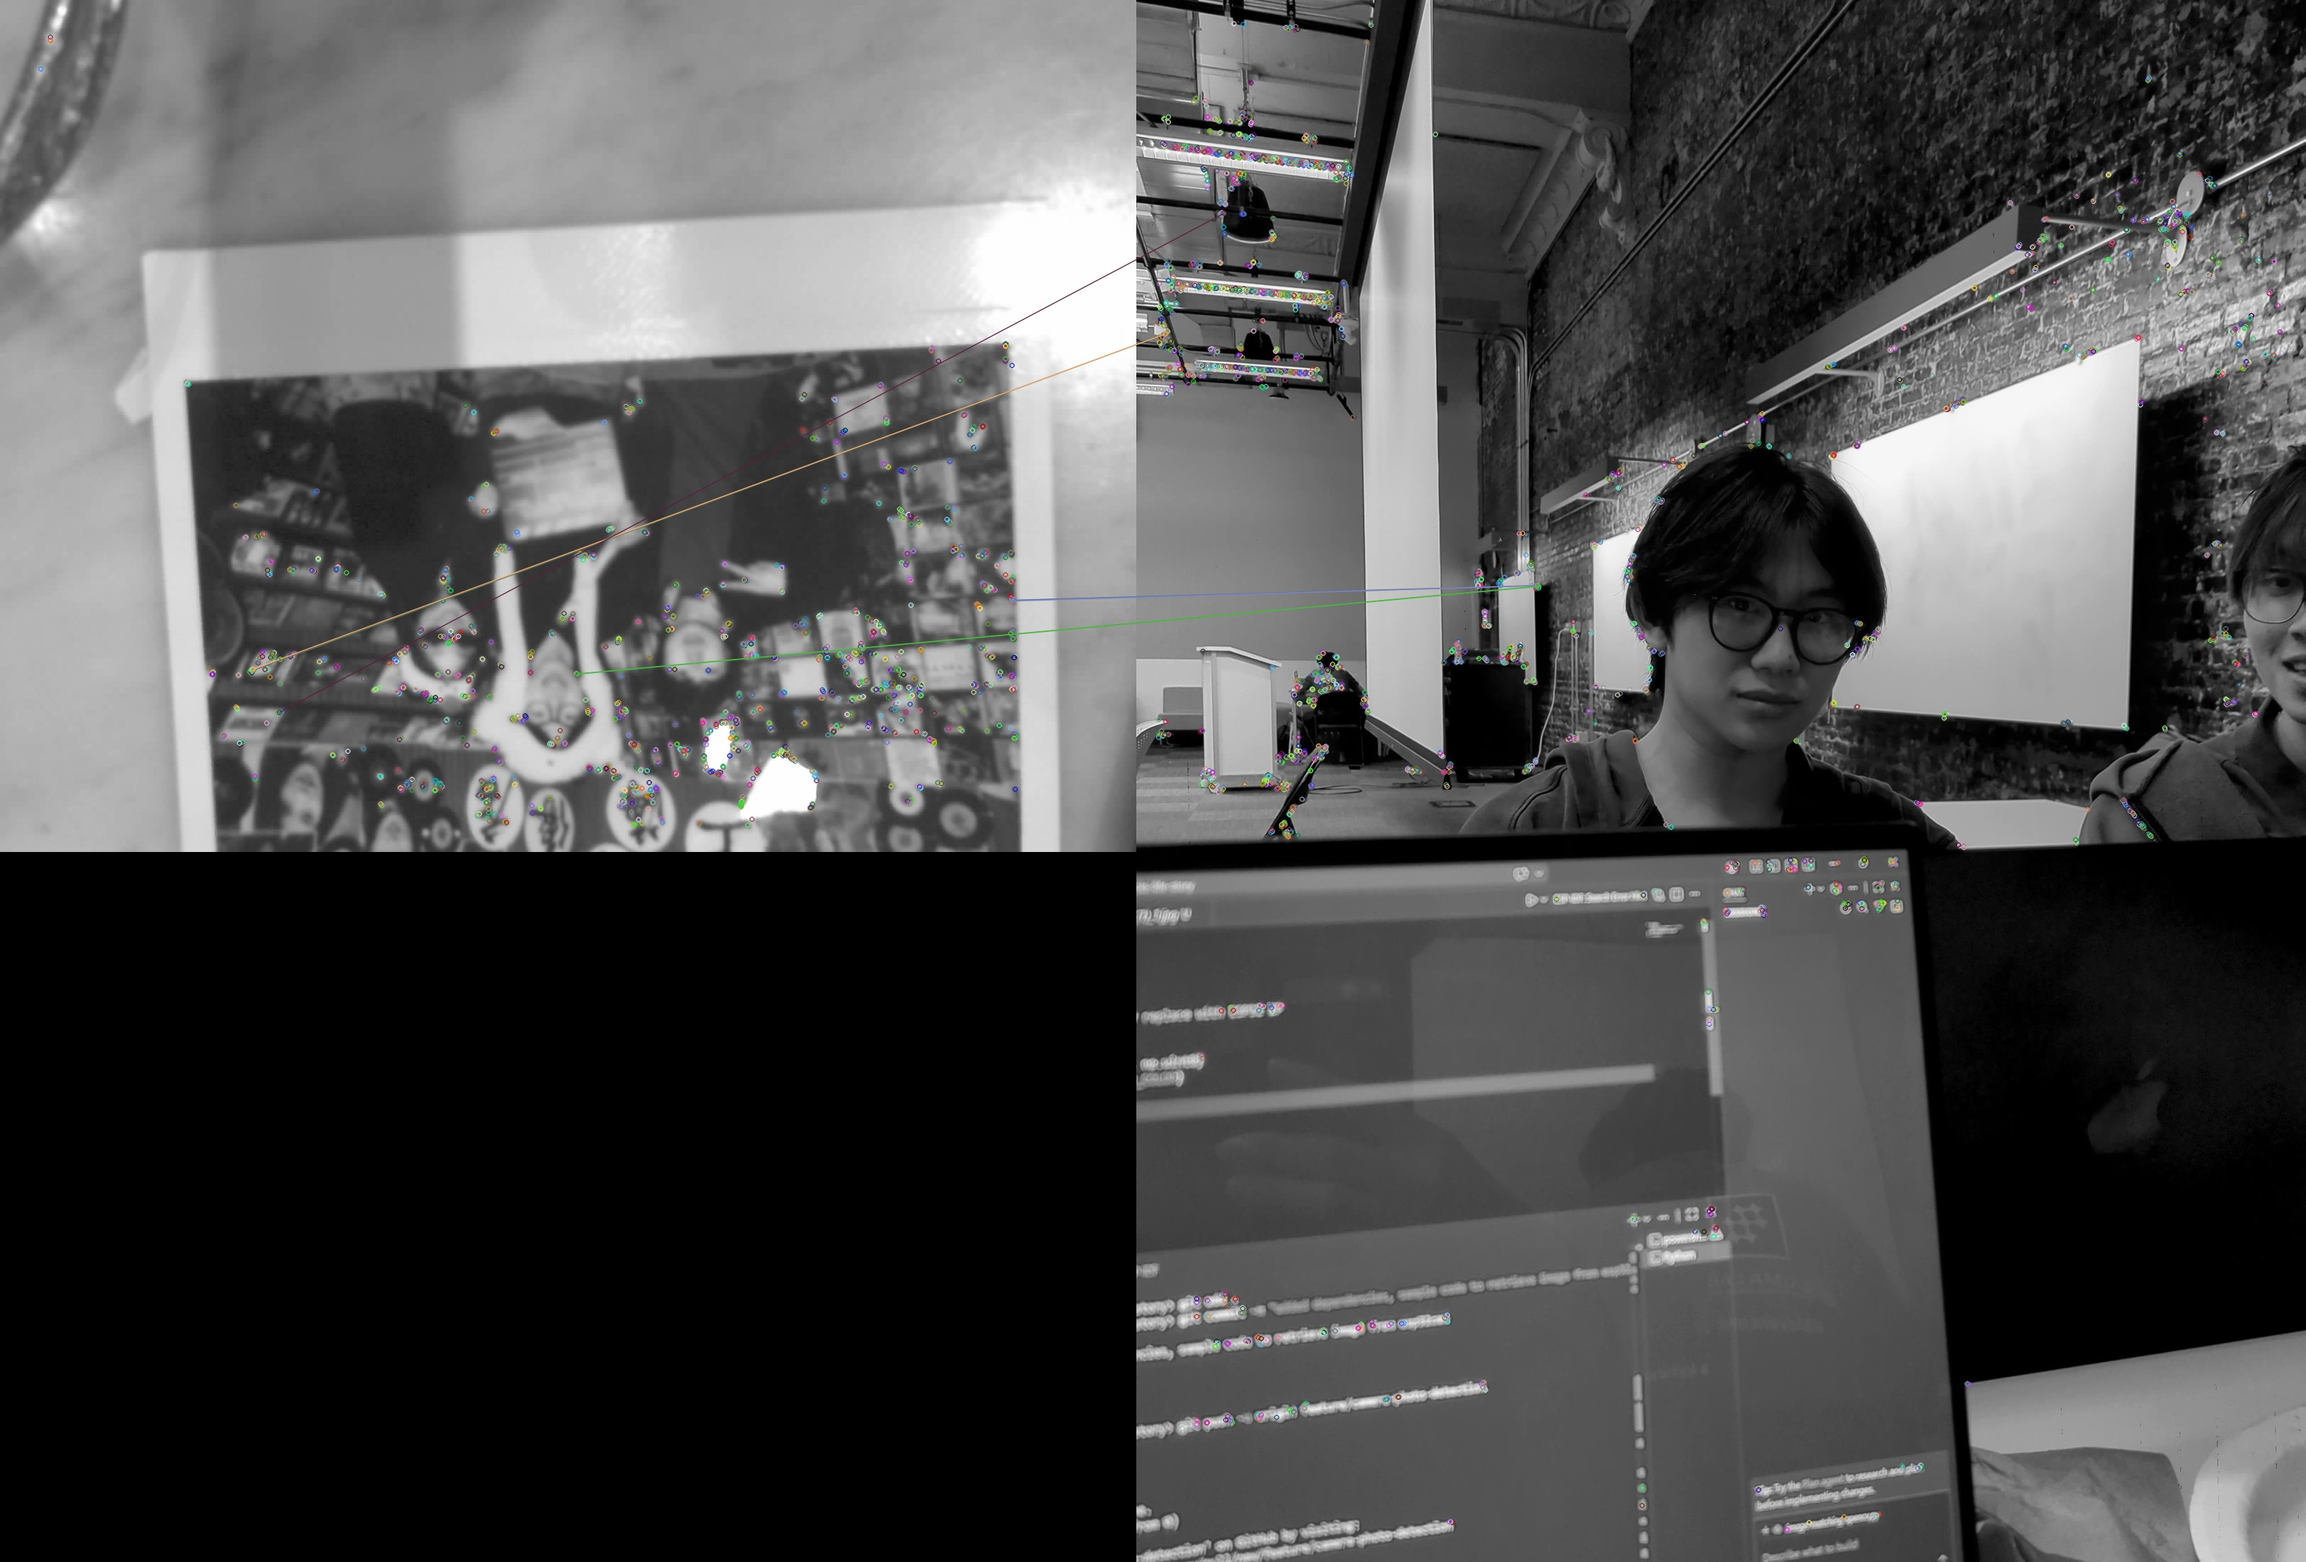
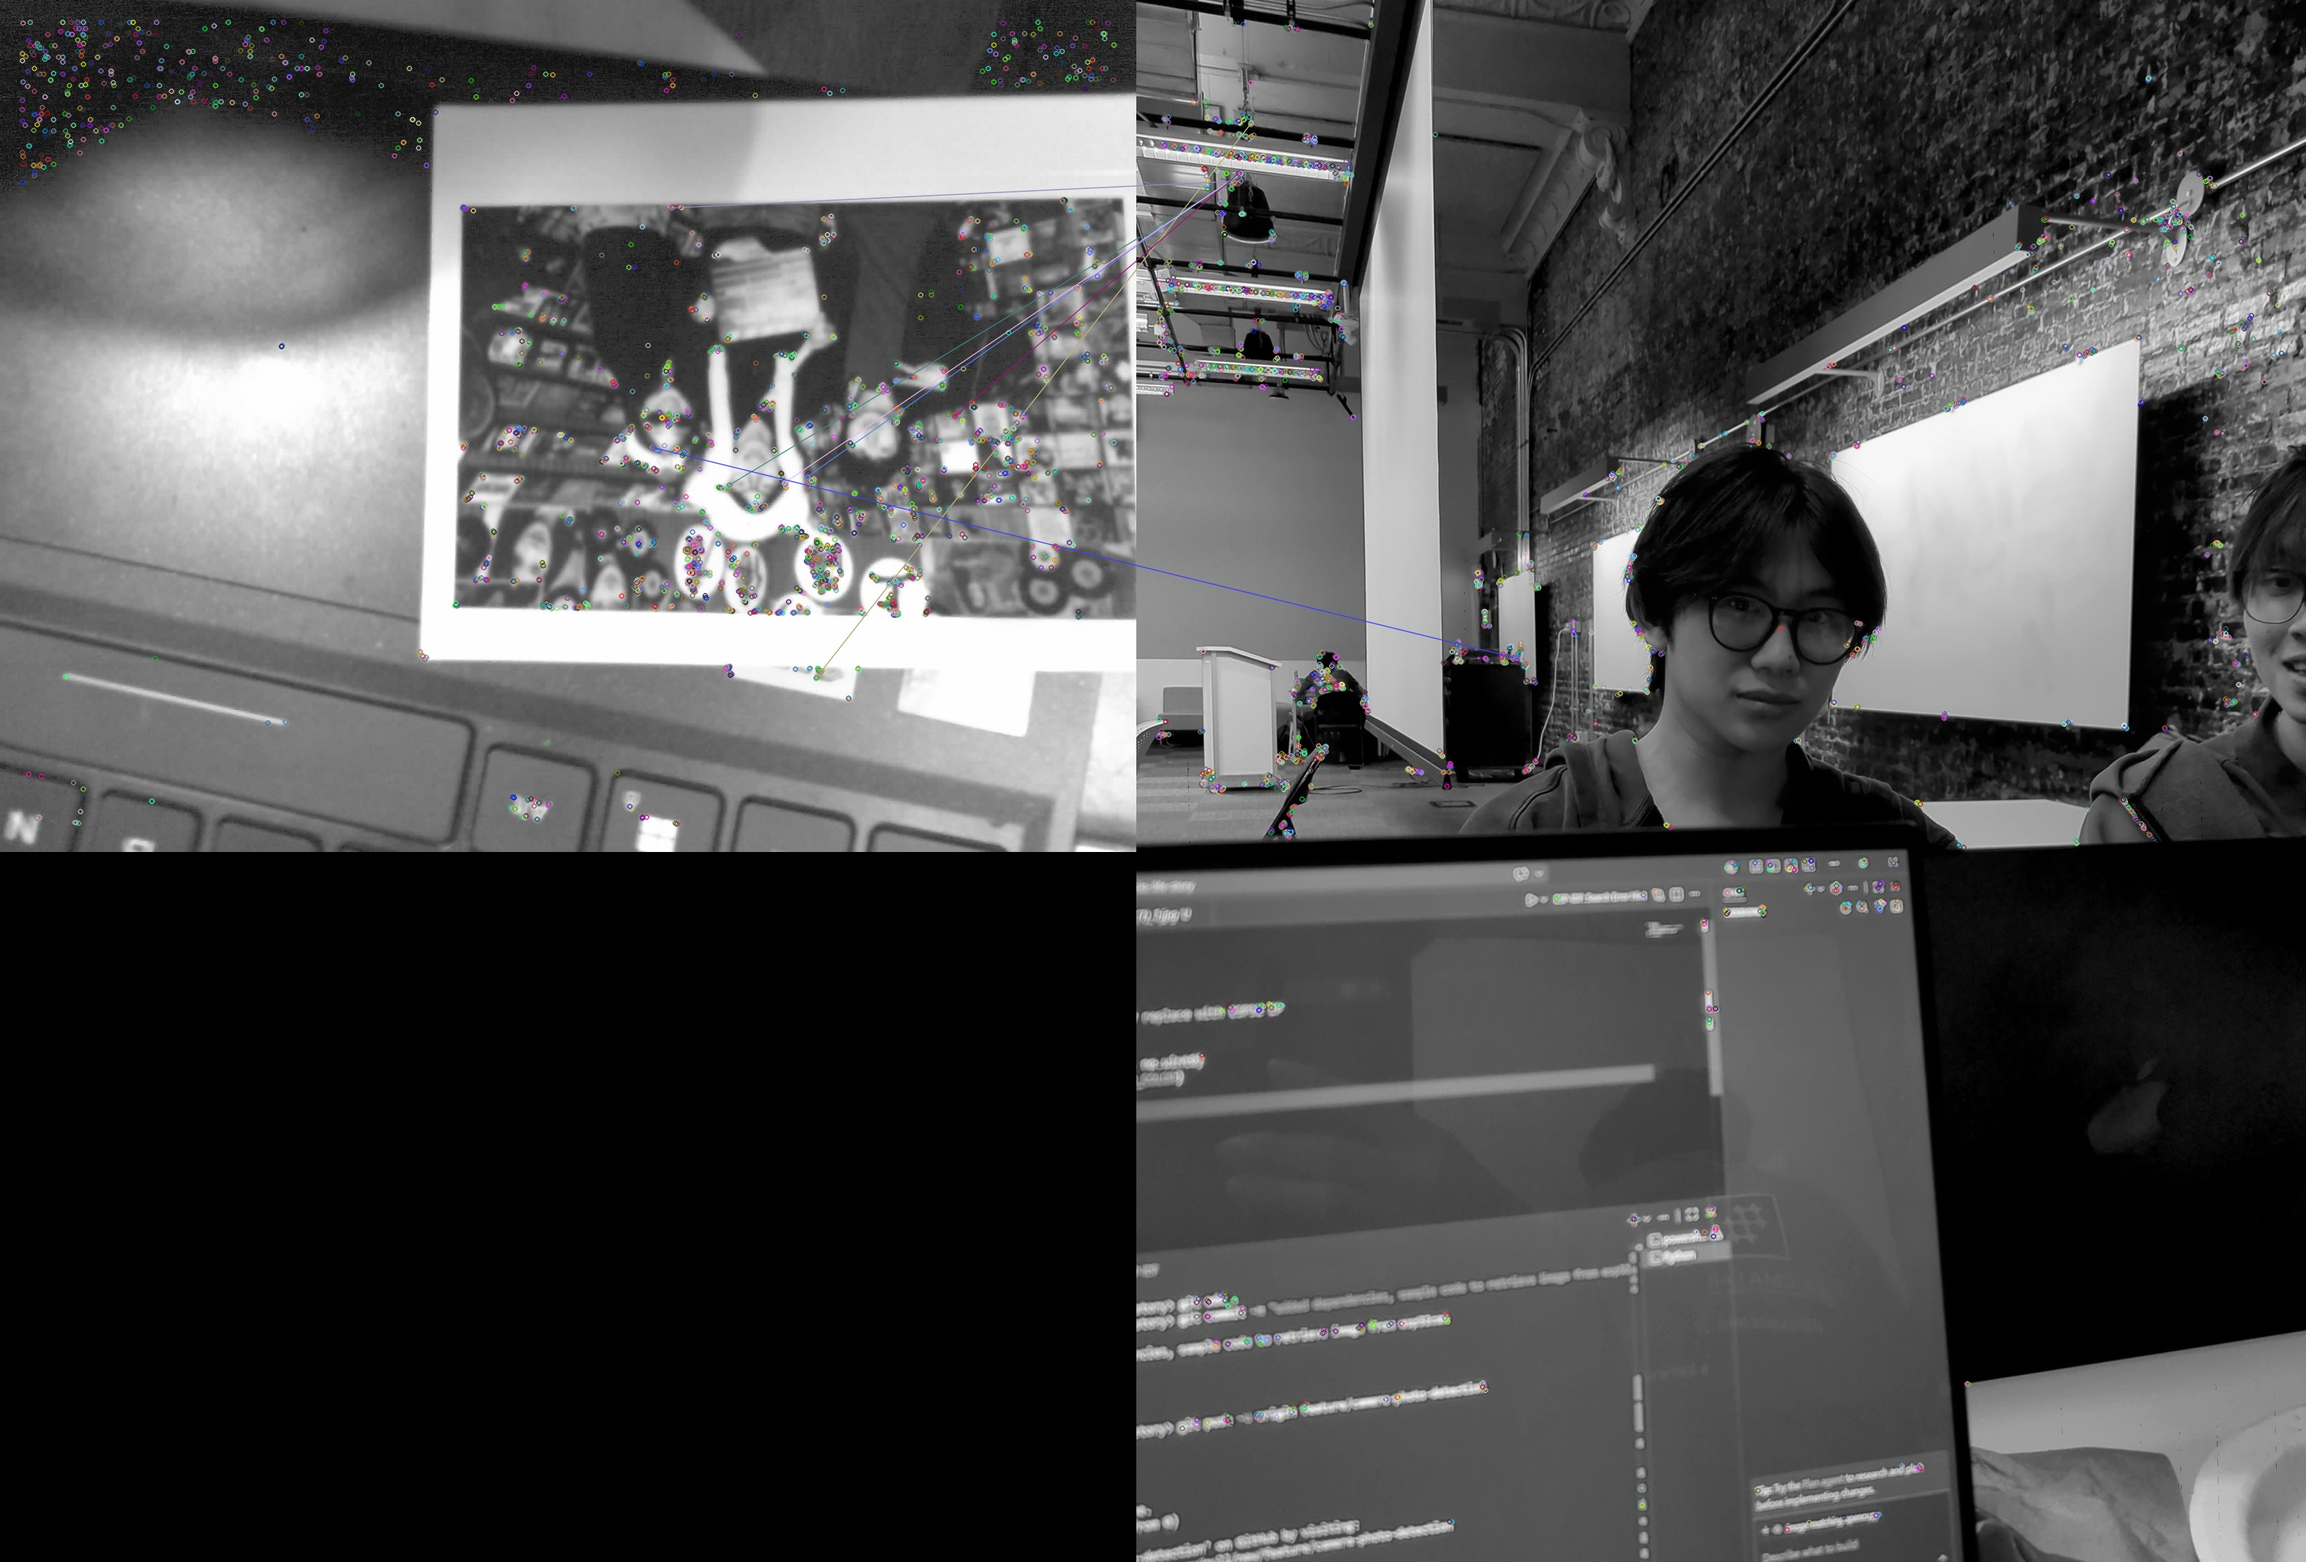
finalized matching pipeline, DINOV2 shortlists into ORB feature matching

diff --git a/memory record player/image matching opencv.py b/memory record player/image matching opencv.py
@@ -15,7 +15,7 @@ MAX_KEYPOINTS    = 3000   # more = slower but more accurate
 MATCH_THRESHOLD  = 0.80  # Lowe's ratio test — lower = stricter (0.6–0.8 typical)
 GOOD_MATCH_MIN   = 20     # minimum RANSAC inliers to consider a positive match
 RANSAC_THRESHOLD = 5.0    # max pixel reprojection error for RANSAC inlier (lower = stricter)
-TOP_DINO_MATCHES   = 5     # number of top DINO matches to consider for final decision
+TOP_DINO_MATCHES   = 3     # number of top DINO matches to consider for final decision
 
 DINO_MODEL_NAME = "facebook/dinov2-base"
 
@@ -35,25 +35,25 @@ def get_dino_embedding(image_bgr):
     inputs = dino_processor(images=pil_image, return_tensors="pt").to(device) #preprocesses image and converts to PyTorch tensor, moves to GPU if available
 
     with torch.no_grad():
-        outputs = dino_model(**inputs)
+        outputs = dino_model(**inputs) #runs image through DINOv3 to get output embeddings, 
 
-    if hasattr(outputs, "pooler_output") and outputs.pooler_output is not None:
-        embedding = outputs.pooler_output
+    if hasattr(outputs, "pooler_output") and outputs.pooler_output is not None: #some models have an extra pooling layer that processes the CLS token output, if available use that
+        embedding = outputs.pooler_output #set embedding to pooling layer output
     else:
-        embedding = outputs.last_hidden_state[:, 0, :] #grabs image embedding from the [CLS] token
-
-    embedding = F.normalize(embedding, p=2, dim=1)
+        embedding = outputs.last_hidden_state[:, 0, :] # : takes all images, 0 takes the first token (CLS token), : takes all features  
+        #since we're only feeding 1 image at a time, our first argument is also just 0 (first image)
+    embedding = F.normalize(embedding, p=2, dim=1) #normalizes embedding to unit length so it can compare cosine similarities
 
     return embedding
 
 def get_dino_similarity(embedding1, embedding2):
-    similarity = torch.matmul(embedding1, embedding2.T).item()
-    return similarity
+    similarity = torch.matmul(embedding1, embedding2.T).item() #dot products both embeddings and returns single float
+    return similarity 
 
 def get_image_from_esp32(): 
     response = requests.get(ESP32_URL)
-    image_array = np.frombuffer(response.content, np.uint8)
-    physical_image = cv2.imdecode(image_array, cv2.IMREAD_COLOR)
+    image_array = np.frombuffer(response.content, np.uint8) #converts raw array of bytes from ESP into numpy array
+    physical_image = cv2.imdecode(image_array, cv2.IMREAD_COLOR) #decodes image into BGR format 
     return physical_image
 
 def get_digital_image(image_path):
@@ -62,6 +62,11 @@ def get_digital_image(image_path):
 
 # Create output folder if it doesn't exist
 os.makedirs(output_folder, exist_ok=True)
+
+# Clear old match result images before each run
+for old_file in os.listdir(output_folder):
+    if old_file.startswith("matches_") or old_file.startswith("kp_"):
+        os.remove(os.path.join(output_folder, old_file))
 
 # Fetch ESP32 image once before the loop
 physical_image = get_image_from_esp32()
@@ -81,7 +86,9 @@ im1_display = cv2.drawKeypoints(im1_gray, keypoints1, None, color=(255,0,0), fla
 cv2.imwrite("esp32imagekp.jpg", im1_display)
 
 results = []
+dino_candidates = []
 
+# First loop: use DINO to score every image in the dataset
 for filename in os.listdir(DATASET_FOLDER):
     if not filename.lower().endswith(('.png', '.jpg', '.jpeg')):
         continue
@@ -93,16 +100,39 @@ for filename in os.listdir(DATASET_FOLDER):
 
     # DINOv3 similarity score
     digital_dino_embedding = get_dino_embedding(digital_image) #compute DINO embedding for digital image
-    dino_score = get_dino_similarity(esp32_dino_embedding, digital_dino_embedding) #compute cosine similarity between ESP32 and digital embeddings
+    dino_score = get_dino_similarity(esp32_dino_embedding, digital_dino_embedding) #compute cosine similarity between ESP32 image and digital embeddings
 
-    keypoints1, descriptors1 = orb.detectAndCompute(im1_gray, None)
+    dino_candidates.append({
+        "filename": filename,
+        "path": path,
+        "digital_image": digital_image,
+        "im2_gray": im2_gray,
+        "dino_score": dino_score
+    })
+
+# Sort by DINO similarity and keep top DINO matches
+dino_candidates = sorted(dino_candidates, key=lambda x: x["dino_score"], reverse=True) #sorts all digital images by DINO score
+top_dino_candidates = dino_candidates[:TOP_DINO_MATCHES] #shortlists top DINO matches, 3 for now
+
+# Second loop: run ORB/RANSAC only on the top DINO matches
+for candidate in top_dino_candidates:
+    filename = candidate["filename"]
+    im2_gray = candidate["im2_gray"]
+    dino_score = candidate["dino_score"]
+
+    keypoints1, descriptors1 = orb.detectAndCompute(im1_gray, None) #detect ORB keypoints and compute descriptors
     keypoints2, descriptors2 = orb.detectAndCompute(im2_gray, None)
 
     im2_display = cv2.drawKeypoints(im2_gray, keypoints2, None, color=(255,0,0), flags=cv2.DRAW_MATCHES_FLAGS_DEFAULT)
     cv2.imwrite(os.path.join(output_folder, f"kp_{filename}"), im2_display)
 
     if descriptors1 is None or descriptors2 is None:
-        print(f"{filename}: no descriptors found, skipping")
+        results.append({
+            "filename": filename,
+            "inliers": 0,
+            "dino_score": dino_score,
+            "is_match": False
+        })
         continue
 
     matches = matcher.knnMatch(descriptors1, descriptors2, k=2) #find two closest matches for each descriptor
@@ -118,28 +148,22 @@ for filename in os.listdir(DATASET_FOLDER):
     good_matches = sorted(good_matches, key=lambda x: x.distance) #sort matches by distance (lower is better)
     #num_good_matches = int(len(good_matches) * .3) #keep top 30% of matches
 
-    if len(good_matches) < 4:
-        print(f"{filename}: not enough matches for homography, skipping") #need at least 4 matches to compute homography
-        print(f"{filename}: DINOv3 similarity — {dino_score:.4f}")
-        continue
-
-    points1 = np.zeros((len(good_matches), 2), dtype=np.float32)
-    points2 = np.zeros((len(good_matches), 2), dtype=np.float32)
-
-    for i, match in enumerate(good_matches):
-        points1[i, :] = keypoints1[match.queryIdx].pt
-        points2[i, :] = keypoints2[match.trainIdx].pt
-    h, mask = cv2.findHomography(points1, points2, cv2.RANSAC, RANSAC_THRESHOLD) #uses RANSAC to find homography and filter out outliers, returns mask of inliers
-
     inlier_matches = []
 
-    if mask is not None:
-        mask = mask.ravel().tolist()
-        inlier_matches = [good_matches[i] for i in range(len(good_matches)) if mask[i]]
+    if len(good_matches) >= 4:
+        points1 = np.zeros((len(good_matches), 2), dtype=np.float32) #creates arrays to hold matched keypoints
+        points2 = np.zeros((len(good_matches), 2), dtype=np.float32) 
 
-    is_match = len(inlier_matches) >= GOOD_MATCH_MIN
-    print(f"{filename}: {len(inlier_matches)} inliers — {'YES' if is_match else 'NO'}")
-    print(f"{filename}: DINOv3 similarity — {dino_score:.4f}")
+        for i, match in enumerate(good_matches):
+            points1[i, :] = keypoints1[match.queryIdx].pt
+            points2[i, :] = keypoints2[match.trainIdx].pt
+        h, mask = cv2.findHomography(points1, points2, cv2.RANSAC, RANSAC_THRESHOLD) #uses RANSAC to find homography and filter out outliers, returns mask of inliers
+
+        if mask is not None:
+            mask = mask.ravel().tolist()
+            inlier_matches = [good_matches[i] for i in range(len(good_matches)) if mask[i]]
+
+    is_match = len(inlier_matches) >= GOOD_MATCH_MIN #match if minimum threshold is reached
 
     results.append({
         "filename": filename,
@@ -153,17 +177,18 @@ for filename in os.listdir(DATASET_FOLDER):
 
 if len(results) > 0:
     best_orb = max(results, key=lambda x: x["inliers"]) 
-    best_dino = max(results, key=lambda x: x["dino_score"])
 
-    print("\n===== BEST ORB/RANSAC MATCH =====")
+    print("\n===== TOP DINO CANDIDATES WITH ORB RESULTS =====")
+    for result in results:
+        print(f"{result['filename']}:")
+        print(f"  DINOv3 similarity: {result['dino_score']:.4f}")
+        print(f"  ORB/RANSAC inliers: {result['inliers']}")
+        print(f"  Match: {'YES' if result['is_match'] else 'NO'}")
+
+    print("\n===== FINAL MATCH =====")
     print(f"File: {best_orb['filename']}")
     print(f"Inliers: {best_orb['inliers']}")
     print(f"DINOv3 similarity: {best_orb['dino_score']:.4f}")
     print(f"Match: {'YES' if best_orb['is_match'] else 'NO'}")
-
-    print("\n===== BEST DINOv3 SIMILARITY MATCH =====")
-    print(f"File: {best_dino['filename']}")
-    print(f"DINOv3 similarity: {best_dino['dino_score']:.4f}")
-    print(f"Inliers: {best_dino['inliers']}")
 
 print(f"\nDone. Results saved to '{output_folder}/'")
